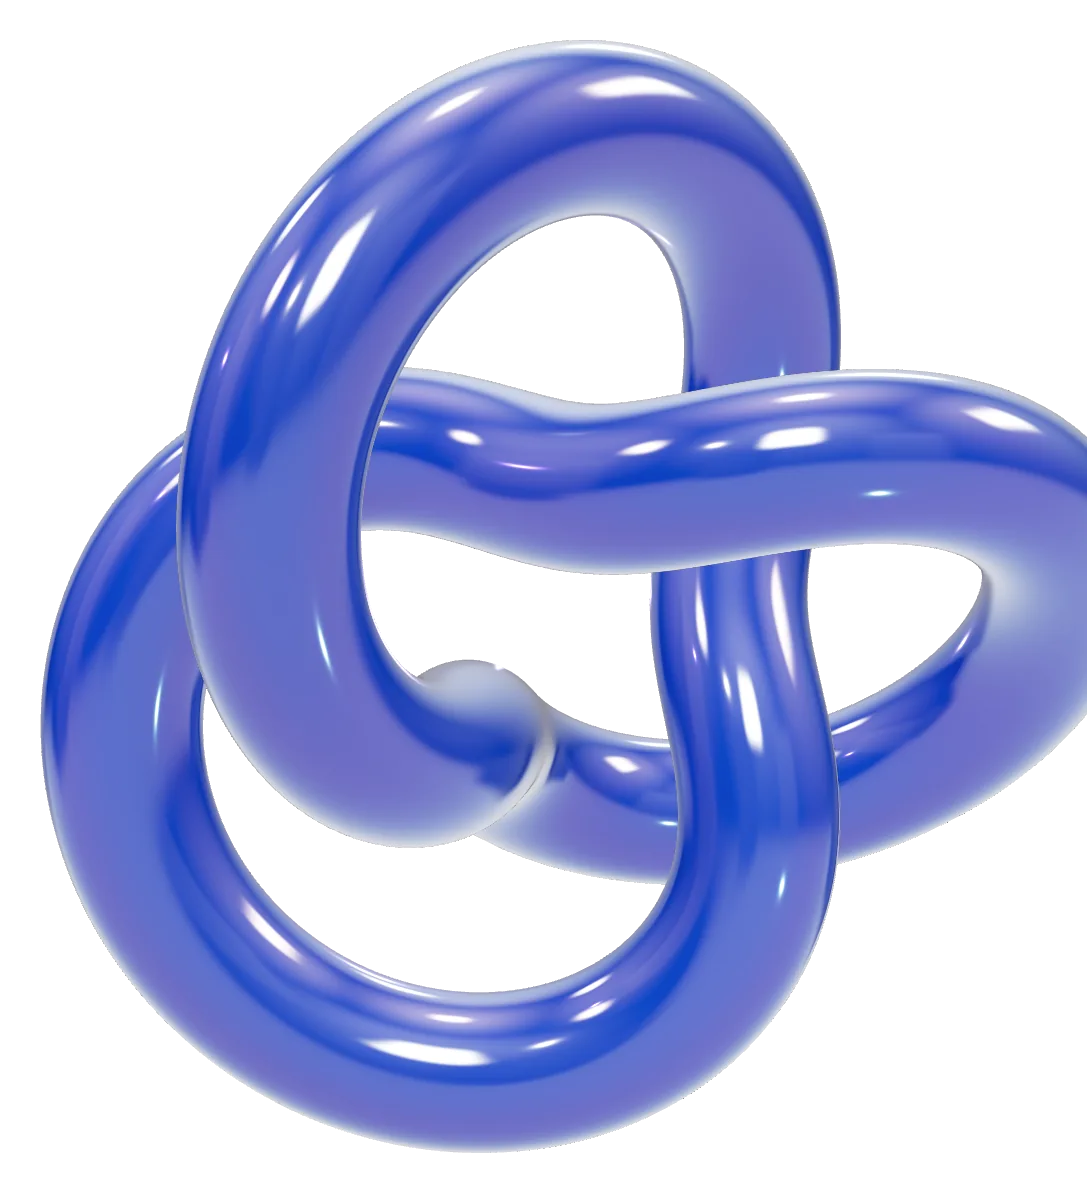
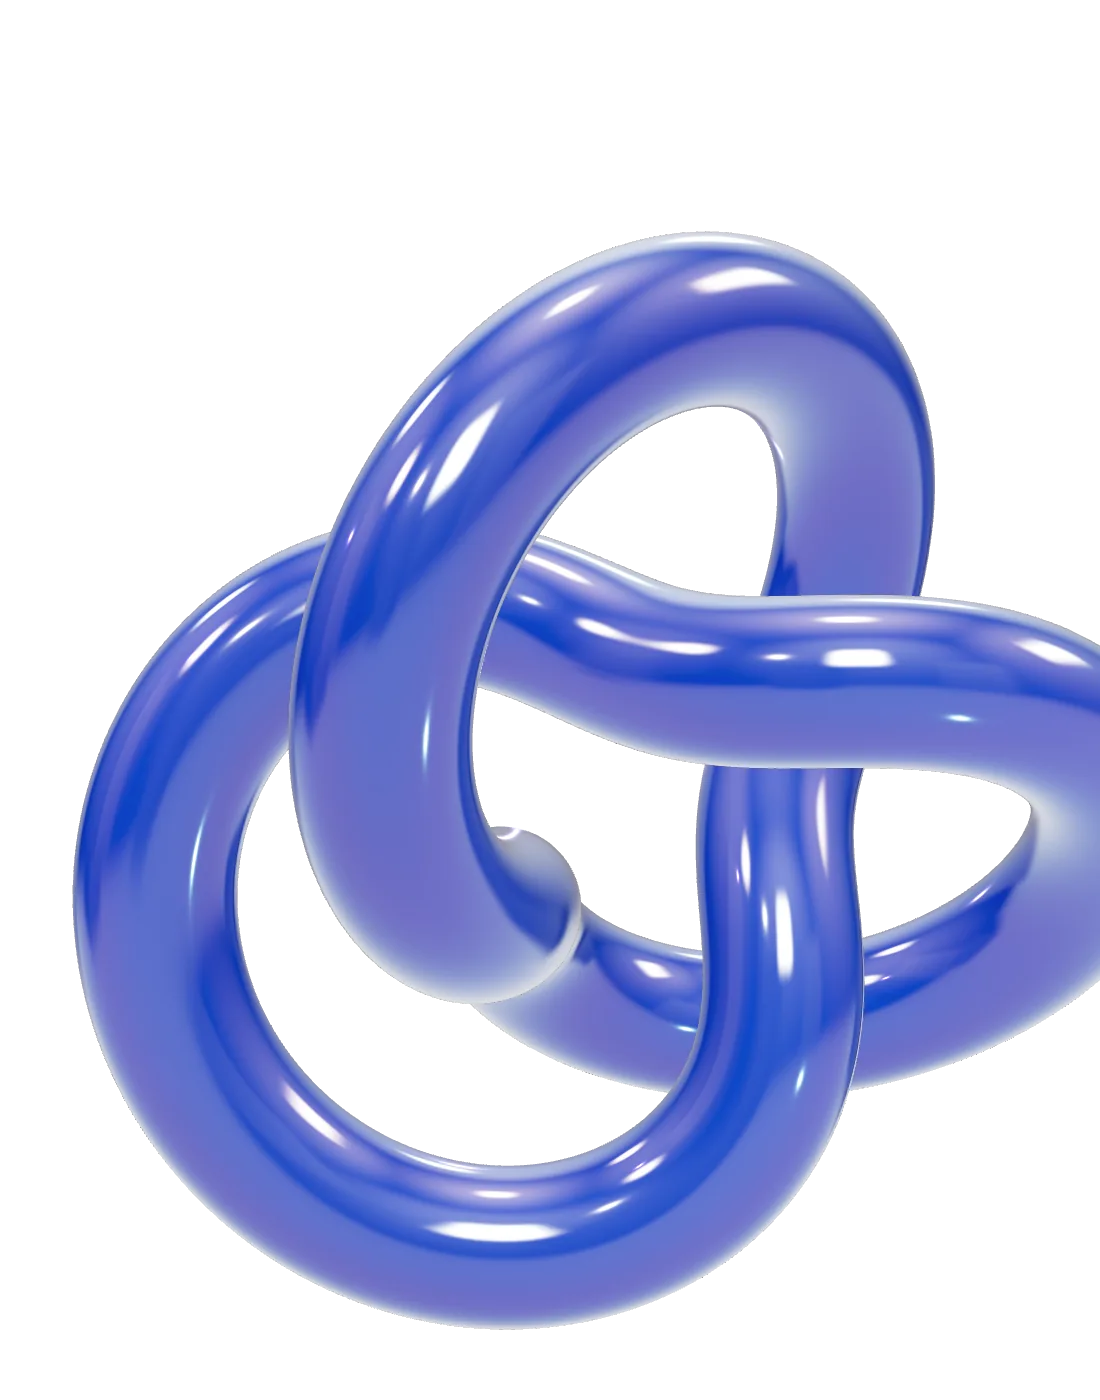
Page shapes use the same bleed-off-the-edge lockup as the coil; wavy ring replaces the star
Claude-Session: https://claude.ai/code/session_013PVuwBpcFgsfuAmyyU7LKk

diff --git a/board_template.html b/board_template.html
@@ -395,9 +395,9 @@ dialog.menu::backdrop{background:transparent}
   <div class="aurora" id="aurora"><div class="layer" data-d="0.9"><i class="b1"></i></div><div class="layer" data-d="-1.3"><i class="b2"></i></div><div class="layer" data-d="1.6"><i class="b3"></i></div><div class="layer" data-d="-0.7"><i class="b4"></i></div></div>
   <canvas class="gl" id="gl"></canvas>
   <img class="coil on" data-for="roles" src="__COIL__" alt="" width="1100" height="1400">
-  <img class="coil" data-for="about" src="assets/shape-about.webp" alt="" width="1087" height="1193">
-  <img class="coil" data-for="feedback" src="assets/shape-feedback.webp" alt="" width="1001" height="863">
-  <img class="coil" data-for="saved" src="assets/shape-saved.webp" alt="" width="934" height="1000">
+  <img class="coil" data-for="about" src="assets/shape-about.webp" alt="" width="1100" height="1400">
+  <img class="coil" data-for="feedback" src="assets/shape-feedback.webp" alt="" width="1100" height="1400">
+  <img class="coil" data-for="saved" src="assets/shape-saved.webp" alt="" width="1100" height="1400">
  </div>
  <div class="wrap">
   <div class="top"><span class="brand"><svg viewBox="0 0 24 24" aria-hidden="true"><defs><linearGradient id="bl" x1="0" y1="0" x2="1" y2="1"><stop offset="0" stop-color="#f1d4ff"/><stop offset="1" stop-color="#8b5cf6"/></linearGradient></defs><rect x="4" y="4" width="16" height="16" rx="6" fill="none" stroke="url(#bl)" stroke-width="4"/></svg>DesignRoles AU</span><span class="proto">Prototype</span><nav class="navlinks" aria-label="Main"><a href="#/" data-nav="roles">Find roles</a><a href="#/saved" data-nav="saved">Saved</a><a href="#/about" data-nav="about">About</a><a href="#/feedback" data-nav="feedback">Feedback</a></nav><button class="burger" id="burger" aria-label="Open menu" aria-haspopup="dialog"><svg width="24" height="24" viewBox="0 0 24 24" fill="none" stroke="currentColor" stroke-width="2" stroke-linecap="round" aria-hidden="true"><path d="M4 7h16M4 12h16M4 17h16"/></svg></button></div>
@@ -984,20 +984,11 @@ $('recent').addEventListener('click', e => { const b = e.target.closest('[data-r
 (() => {
   const hero = document.querySelector('.hero');
   const fit = () => {
-    const coil = hero.querySelector('.coil.on'), page = coil.dataset.for !== 'roles';
+    const coil = hero.querySelector('.coil.on');   // every page uses the same lockup: large, running off the right edge
     const vw = document.documentElement.clientWidth;
     let right = 0;
     for (const el of hero.querySelectorAll('.intro h1 span, .ptitle h1 span, .ptitle .psub, .srow > *, .frow > *, .mpill')) {
       const r = el.getBoundingClientRect(); if (r.width) right = Math.max(right, r.right);
-    }
-    if (page) {
-      // Page shapes are cropped tight: fit the whole shape between the nav and the bottom of the header
-      const hH = hero.getBoundingClientRect().height, ar = (coil.naturalWidth || 1) / (coil.naturalHeight || 1);
-      const h = Math.min(hH - 64 - 20, 300), w = Math.min(h * ar, vw - right - 48);
-      coil.classList.toggle('off', w < 160);
-      coil.style.width = Math.round(w) + 'px'; coil.style.right = 'max(16px, calc((100vw - 1240px) / 2 + 2.5vw))';
-      coil.style.top = Math.round(64 + (hH - 64 - w / ar) / 2 - 4) + 'px';
-      return;
     }
     const w = Math.min(500, (vw - right - 32) / 0.65);
     coil.classList.toggle('off', w < 240);
